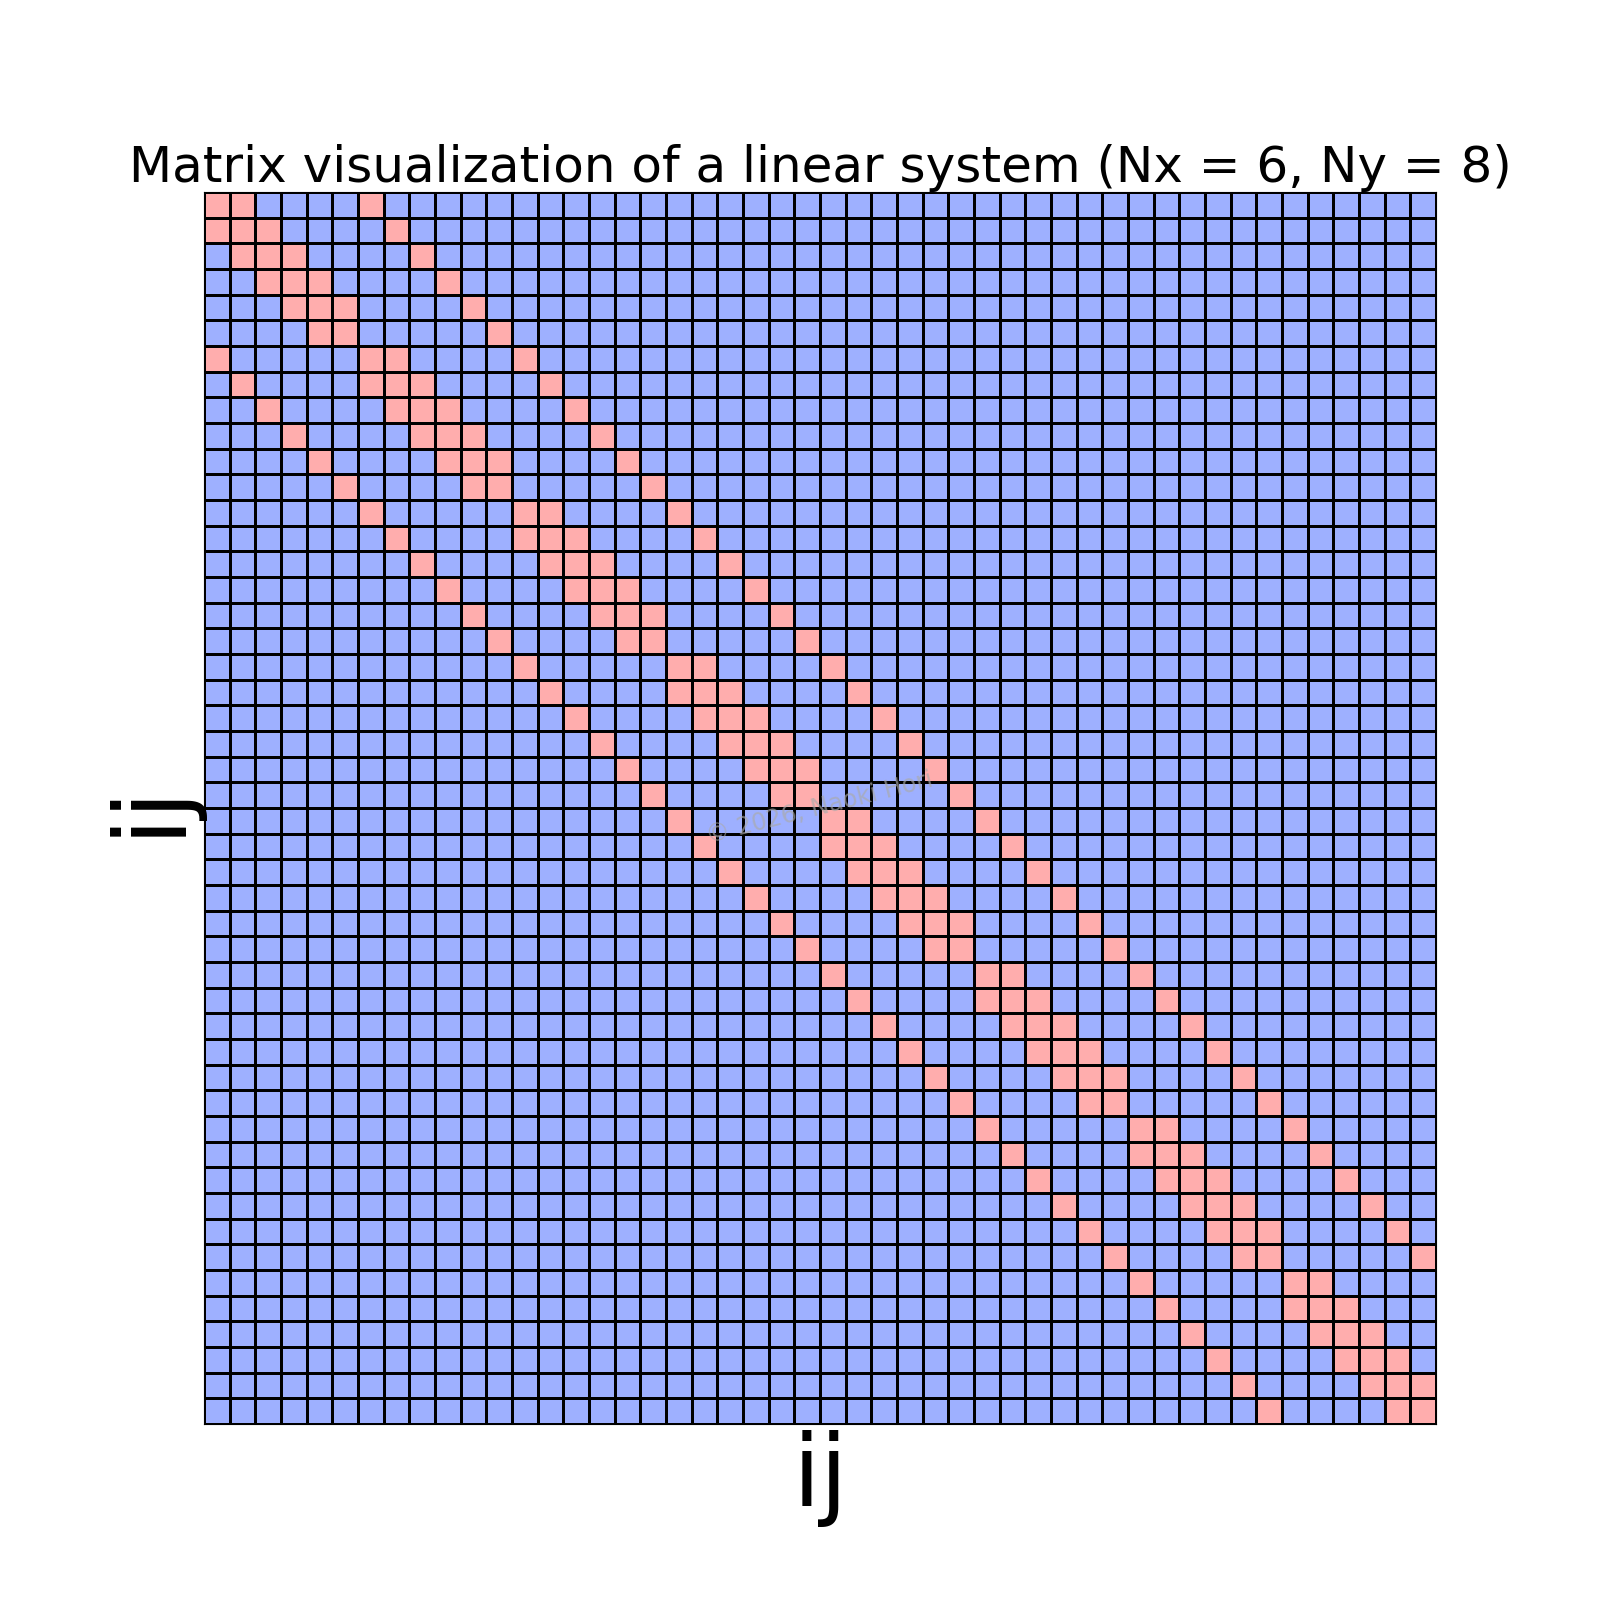
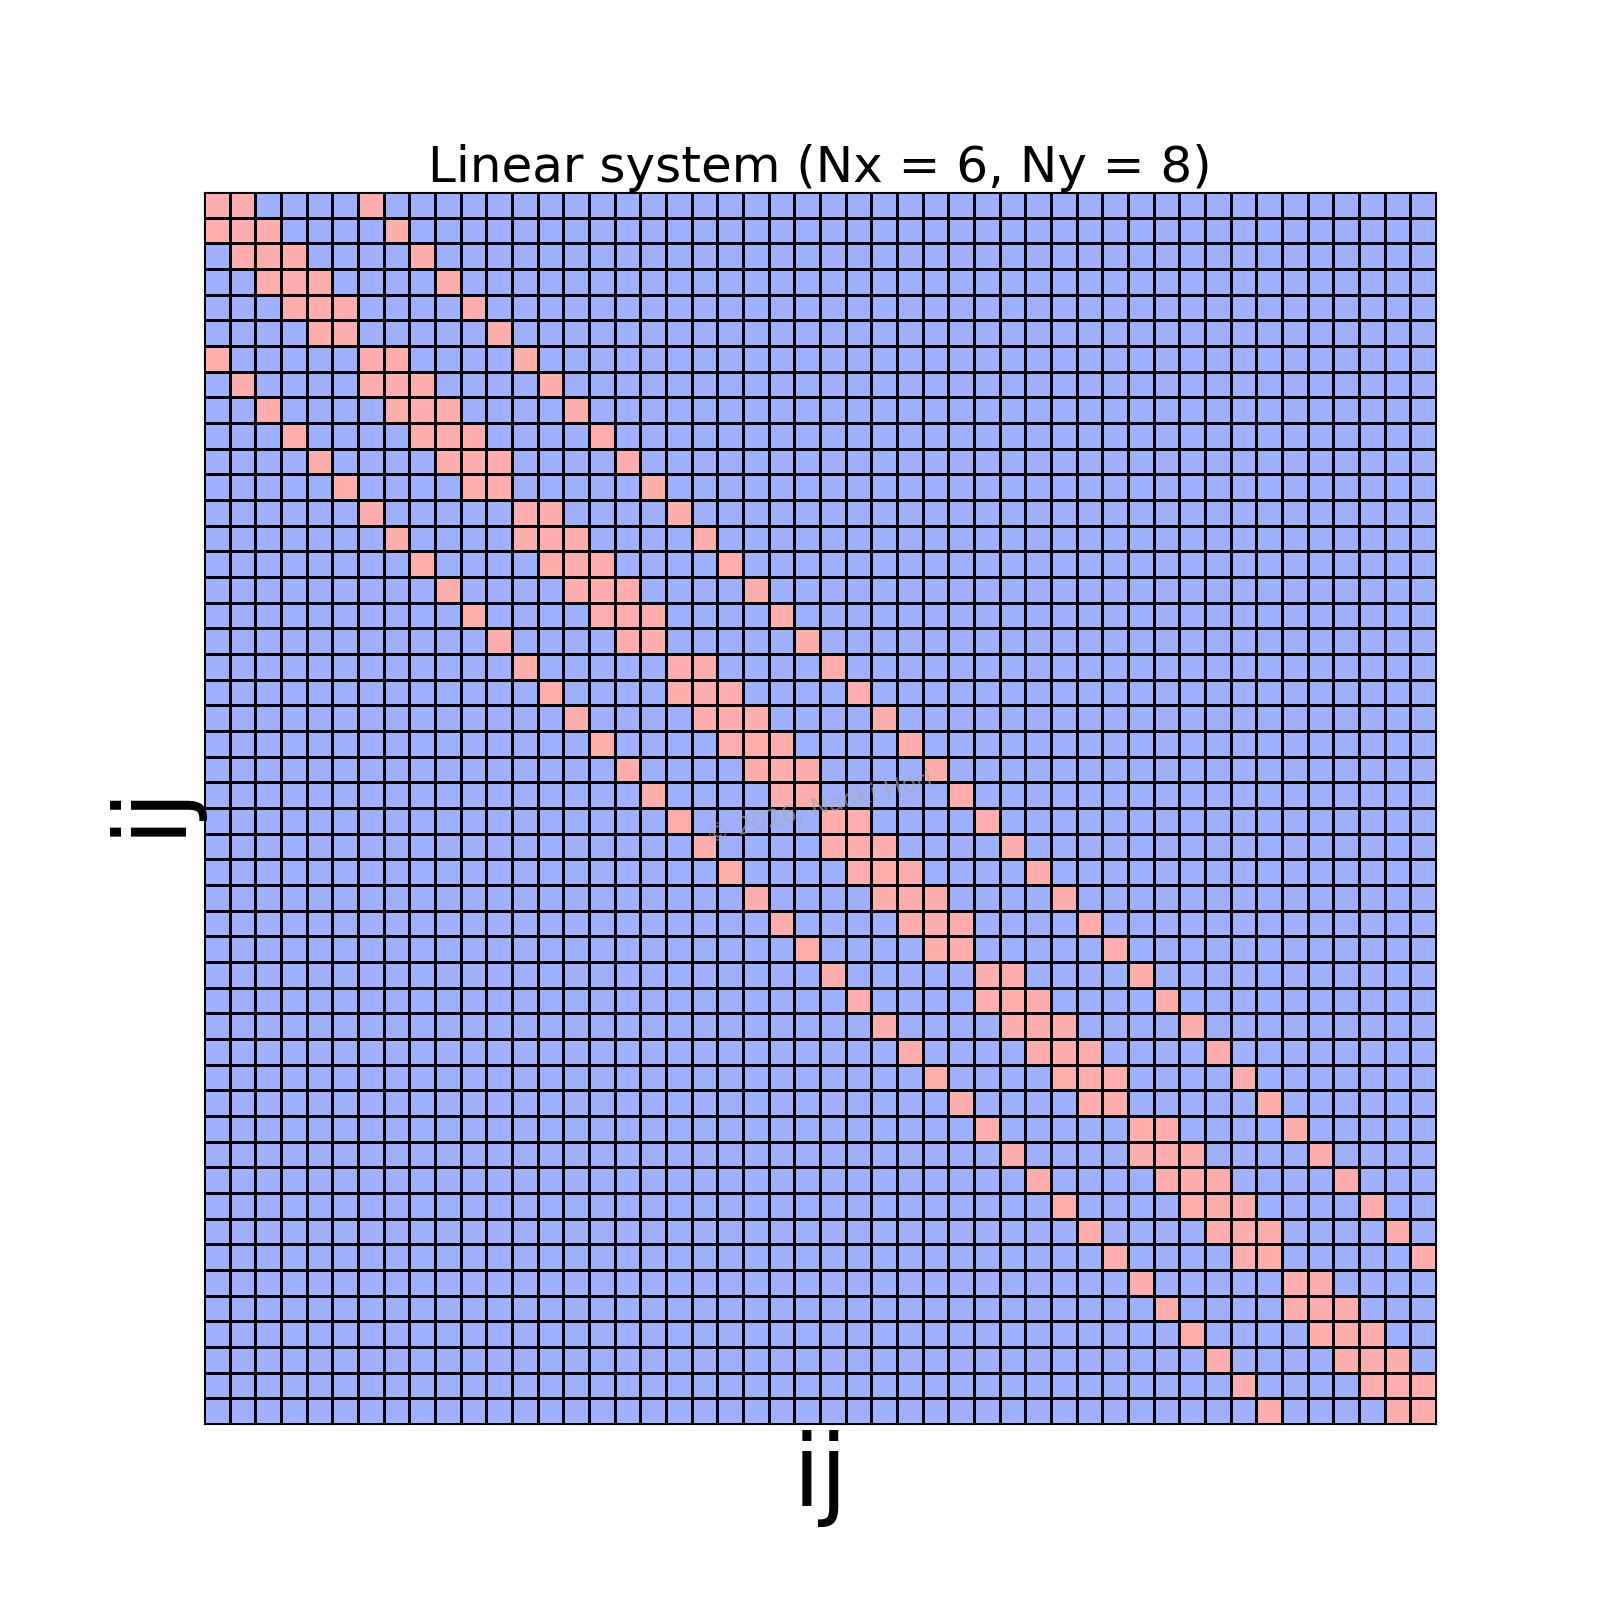
[mod] docs

Changed region(s): [[0.0625, 0.0938, 0.9375, 0.125]]

diff --git a/NonUniform/docs/src/discrete_poisson_equation.rs b/NonUniform/docs/src/discrete_poisson_equation.rs
@@ -132,16 +132,17 @@ pub fn exec(symbols: &crate::Symbols, destination: &str) {
             .as_str(),
         )
     };
-    let p = MathExpr::from("p");
-    let q = MathExpr::from("q");
-    let p_x_eigenspace = MathExpr::from("P");
-    let q_x_eigenspace = MathExpr::from("Q");
-    let p_vector = |index: &str| -> MathExpr { MathExpr::from(format!("{}_{index}", &p)) };
-    let q_vector = |index: &str| -> MathExpr { MathExpr::from(format!("{}_{index}", &q)) };
-    let p_vector_x_eigenspace =
-        |index: &str| -> MathExpr { MathExpr::from(format!("{}_{index}", &p_x_eigenspace)) };
-    let q_vector_x_eigenspace =
-        |index: &str| -> MathExpr { MathExpr::from(format!("{}_{index}", &q_x_eigenspace)) };
+    let f = MathExpr::from("f");
+    let g = MathExpr::from("g");
+    let block_diagonal_matrix_symbol = MathExpr::from("B");
+    let f_x_eigenspace = MathExpr::from("F");
+    let g_x_eigenspace = MathExpr::from("G");
+    let f_vector = |index: &str| -> MathExpr { MathExpr::from(format!("{}_{index}", &f)) };
+    let g_vector = |index: &str| -> MathExpr { MathExpr::from(format!("{}_{index}", &g)) };
+    let f_vector_x_eigenspace =
+        |index: &str| -> MathExpr { MathExpr::from(format!("{}_{index}", &f_x_eigenspace)) };
+    let g_vector_x_eigenspace =
+        |index: &str| -> MathExpr { MathExpr::from(format!("{}_{index}", &g_x_eigenspace)) };
     let lower_symbol = MathExpr::from("l");
     let upper_symbol = MathExpr::from("u");
     let x_eigenvalue = MathExpr::from(r"\lambda_x");
@@ -161,49 +162,52 @@ pub fn exec(symbols: &crate::Symbols, destination: &str) {
         |indices: (&str, &str)| -> MathExpr { matrix(real_symmetric_matrix_symbol, indices) };
     let markdown = doc!(
         include_str!("discrete_poisson_equation.komainu.md"),
+        block_diagonal_matrix_symbol = &block_diagonal_matrix_symbol,
         diagonal_matrix = matrix(diagonal_matrix_symbol, ("k", "l")),
         discrete_poisson_equation = equal(
-            &x_lower_diagonal * at_2d(&p, (Offset::MinusOne, Offset::None))
-                - (&x_lower_diagonal + &x_upper_diagonal) * at_2d(&p, (Offset::None, Offset::None))
-                + &x_upper_diagonal * at_2d(&p, (Offset::PlusOne, Offset::None))
-                + &y_lower_diagonal * at_2d(&p, (Offset::None, Offset::MinusOne))
-                - (&y_lower_diagonal + &y_upper_diagonal) * at_2d(&p, (Offset::None, Offset::None))
-                + &y_upper_diagonal * at_2d(&p, (Offset::None, Offset::PlusOne)),
-            at_2d(&q, (Offset::None, Offset::None)),
+            &x_lower_diagonal * at_2d(&f, (Offset::MinusOne, Offset::None))
+                - (&x_lower_diagonal + &x_upper_diagonal) * at_2d(&f, (Offset::None, Offset::None))
+                + &x_upper_diagonal * at_2d(&f, (Offset::PlusOne, Offset::None))
+                + &y_lower_diagonal * at_2d(&f, (Offset::None, Offset::MinusOne))
+                - (&y_lower_diagonal + &y_upper_diagonal) * at_2d(&f, (Offset::None, Offset::None))
+                + &y_upper_diagonal * at_2d(&f, (Offset::None, Offset::PlusOne)),
+            at_2d(&g, (Offset::None, Offset::None)),
         ),
         discrete_poisson_equation_1d = equal(
-            &x_lower_diagonal * at_1d(&p, Offset::MinusOne)
-                - (&x_lower_diagonal + &x_upper_diagonal) * at_1d(&p, Offset::None)
-                + &x_upper_diagonal * at_1d(&p, Offset::PlusOne),
-            at_1d(&q, Offset::None),
+            &x_lower_diagonal * at_1d(&f, Offset::MinusOne)
+                - (&x_lower_diagonal + &x_upper_diagonal) * at_1d(&f, Offset::None)
+                + &x_upper_diagonal * at_1d(&f, Offset::PlusOne),
+            at_1d(&g, Offset::None),
         ),
         discrete_poisson_equation_1d_matrix_form =
-            equal(laplace_operator(("i", "j")) * &p_vector("j"), q_vector("i")),
+            equal(laplace_operator(("i", "j")) * &f_vector("j"), g_vector("i")),
         discrete_poisson_equation_1d_matrix_form_decomposed = equal(
             matrix(diagonal_matrix_symbol, ("i", "k"))
                 * matrix(orthogonal_matrix_symbol, ("l", "k"))
                 * matrix(symmetrization_matrix_symbol, ("l", "j"))
-                * &p_vector("j"),
+                * &f_vector("j"),
             matrix(orthogonal_matrix_symbol, ("k", "i"))
                 * matrix(symmetrization_matrix_symbol, ("k", "j"))
-                * &q_vector("j"),
+                * &g_vector("j"),
         ),
         discrete_poisson_equation_1d_matrix_form_decomposed_eigenspace = equal(
-            matrix(diagonal_matrix_symbol, ("i", "j")) * p_vector_x_eigenspace("j"),
-            q_vector_x_eigenspace("i"),
+            matrix(diagonal_matrix_symbol, ("i", "j")) * f_vector_x_eigenspace("j"),
+            g_vector_x_eigenspace("i"),
         ),
         discrete_poisson_equation_x_eigenspace = equal(
-            &x_eigenvalue * at_x_eigenspace(&p_x_eigenspace, Offset::None)
-                + &y_lower_diagonal * at_x_eigenspace(&p_x_eigenspace, Offset::MinusOne)
+            &x_eigenvalue * at_x_eigenspace(&f_x_eigenspace, Offset::None)
+                + &y_lower_diagonal * at_x_eigenspace(&f_x_eigenspace, Offset::MinusOne)
                 - (&y_lower_diagonal + &y_upper_diagonal)
-                    * at_x_eigenspace(&p_x_eigenspace, Offset::None)
-                + &y_upper_diagonal * at_x_eigenspace(&p_x_eigenspace, Offset::PlusOne),
-            at_x_eigenspace(&q_x_eigenspace, Offset::None),
+                    * at_x_eigenspace(&f_x_eigenspace, Offset::None)
+                + &y_upper_diagonal * at_x_eigenspace(&f_x_eigenspace, Offset::PlusOne),
+            at_x_eigenspace(&g_x_eigenspace, Offset::None),
         ),
+        f = &f,
+        f_x_eigenspace = &f_x_eigenspace,
+        g = &g,
         laplace_operator = laplace_operator(("i", "j")),
         orthogonal_matrix = matrix(orthogonal_matrix_symbol, ("i", "k")),
-        p = &p,
-        p_x_eigenspace = &p_x_eigenspace,
+        orthogonal_matrix_symbol = &orthogonal_matrix_symbol,
         real_symmetric_matrix_definition = equal(
             real_symmetric_matrix(("i", "j")),
             matrix(orthogonal_matrix_symbol, ("i", "k"))

diff --git a/NonUniform/docs/discrete_poisson_equation/README.md b/NonUniform/docs/discrete_poisson_equation/README.md
@@ -3,7 +3,7 @@
 The two-dimensional Poisson equation discretized by the second-order accurate central-finite-difference schems in rectilinear coordinates leads to:
 
 ```math
-{{\left( {l}_1 \right)_{i}} {{p}_{i-1, j}} - \left( {\left( {l}_1 \right)_{i}} + {\left( {u}_1 \right)_{i}} \right) {{p}_{i, j}} + {\left( {u}_1 \right)_{i}} {{p}_{i+1, j}} + {\left( {l}_2 \right)_{j}} {{p}_{i, j-1}} - \left( {\left( {l}_2 \right)_{j}} + {\left( {u}_2 \right)_{j}} \right) {{p}_{i, j}} + {\left( {u}_2 \right)_{j}} {{p}_{i, j+1}} = {{q}_{i, j}}},
+{{\left( {l}_1 \right)_{i}} {{f}_{i-1, j}} - \left( {\left( {l}_1 \right)_{i}} + {\left( {u}_1 \right)_{i}} \right) {{f}_{i, j}} + {\left( {u}_1 \right)_{i}} {{f}_{i+1, j}} + {\left( {l}_2 \right)_{j}} {{f}_{i, j-1}} - \left( {\left( {l}_2 \right)_{j}} + {\left( {u}_2 \right)_{j}} \right) {{f}_{i, j}} + {\left( {u}_2 \right)_{j}} {{f}_{i, j+1}} = {{g}_{i, j}}},
 ```
 
 where
@@ -35,23 +35,39 @@ where the red and blue cells contain non-zero and zero values, respectively.
 To solve this system directly, we first aim to convert the original system to
 
 ```math
-{{\lambda_x} {{P}_{\lambda_k, j}} + {\left( {l}_2 \right)_{j}} {{P}_{\lambda_k, j-1}} - \left( {\left( {l}_2 \right)_{j}} + {\left( {u}_2 \right)_{j}} \right) {{P}_{\lambda_k, j}} + {\left( {u}_2 \right)_{j}} {{P}_{\lambda_k, j+1}} = {{Q}_{\lambda_k, j}}},
+{{\lambda_x} {{F}_{\lambda_k, j}} + {\left( {l}_2 \right)_{j}} {{F}_{\lambda_k, j-1}} - \left( {\left( {l}_2 \right)_{j}} + {\left( {u}_2 \right)_{j}} \right) {{F}_{\lambda_k, j}} + {\left( {u}_2 \right)_{j}} {{F}_{\lambda_k, j+1}} = {{G}_{\lambda_k, j}}},
 ```
 
-which is tri-diagonal for each ${\lambda_x}$ and thus can be solved fairly easily by e.g., the Thomas algorithm.
+which looks like:
+
+<p align="center">
+  <img alt="sparse_matrix_reduced" src="./sparse_matrix_reduced.png" width="50%" />
+</p>
+
+This conversion (eigendecomposition) is achieved by applying a block-diagonal operator ${B}$:
+
+```math
+{B}_{ij} {f}_{jk} {B}_{lk}
+=
+{B}_{ij} {g}_{jk} {B}_{lk},
+```
+
+where ${B}$ has $Q$ (which is elaborated in the next part) repeatedly (for $N_y$ times) on the main diagonal.
+
+The converted system is tridiagonal for each ${\lambda_x}$ and thus can be solved fairly easily by e.g., the Thomas algorithm.
 
 ## Spectral decomposition
 
-To find the transform from ${p}$ to ${P}$, we focus on the one-dimensional equation:
+To find the transform from ${f}$ to ${F}$, we focus on the one-dimensional equation:
 
 ```math
-{{\left( {l}_1 \right)_{i}} {{p}_{i-1}} - \left( {\left( {l}_1 \right)_{i}} + {\left( {u}_1 \right)_{i}} \right) {{p}_{i}} + {\left( {u}_1 \right)_{i}} {{p}_{i+1}} = {{q}_{i}}},
+{{\left( {l}_1 \right)_{i}} {{f}_{i-1}} - \left( {\left( {l}_1 \right)_{i}} + {\left( {u}_1 \right)_{i}} \right) {{f}_{i}} + {\left( {u}_1 \right)_{i}} {{f}_{i+1}} = {{g}_{i}}},
 ```
 
 or equivalently:
 
 ```math
-{{L_{ij}} {{p}_j} = {{q}_i}}.
+{{L_{ij}} {{f}_j} = {{g}_i}}.
 ```
 
 Our objective is equivalent to decompose the linear operator ${L_{ij}}$.
@@ -79,13 +95,13 @@ with ${D_{ij}}$ being a diagonal matrix whose components are:
 As a consequence, the one-dimensional equation of interest leads to
 
 ```math
-{{\Lambda_{ik}} {Q_{lk}} {D_{lj}} {{p}_j} = {Q_{ki}} {D_{kj}} {{q}_j}},
+{{\Lambda_{ik}} {Q_{lk}} {D_{lj}} {{f}_j} = {Q_{ki}} {D_{kj}} {{g}_j}},
 ```
 
 or equivalently
 
 ```math
-{{\Lambda_{ij}} {{P}_j} = {{Q}_i}},
+{{\Lambda_{ij}} {{F}_j} = {{G}_i}},
 ```
 
 where we use that inverse of an orthogonal matrix is equal to the transpose of it.

diff --git a/NonUniform/docs/src/discrete_poisson_equation.komainu.md b/NonUniform/docs/src/discrete_poisson_equation.komainu.md
@@ -38,11 +38,27 @@ To solve this system directly, we first aim to convert the original system to
 {discrete_poisson_equation_x_eigenspace},
 ```
 
-which is tri-diagonal for each ${x_eigenvalue}$ and thus can be solved fairly easily by e.g., the Thomas algorithm.
+which looks like:
+
+<p align="center">
+  <img alt="sparse_matrix_reduced" src="./sparse_matrix_reduced.png" width="50%" />
+</p>
+
+This conversion (eigendecomposition) is achieved by applying a block-diagonal operator ${block_diagonal_matrix_symbol}$:
+
+```math
+{block_diagonal_matrix_symbol}_{{ij}} {f}_{{jk}} {block_diagonal_matrix_symbol}_{{lk}}
+=
+{block_diagonal_matrix_symbol}_{{ij}} {g}_{{jk}} {block_diagonal_matrix_symbol}_{{lk}},
+```
+
+where ${block_diagonal_matrix_symbol}$ has ${orthogonal_matrix_symbol}$ (which is elaborated in the next part) repeatedly (for $N_y$ times) on the main diagonal.
+
+The converted system is tridiagonal for each ${x_eigenvalue}$ and thus can be solved fairly easily by e.g., the Thomas algorithm.
 
 ## Spectral decomposition
 
-To find the transform from ${p}$ to ${p_x_eigenspace}$, we focus on the one-dimensional equation:
+To find the transform from ${f}$ to ${f_x_eigenspace}$, we focus on the one-dimensional equation:
 
 ```math
 {discrete_poisson_equation_1d},
